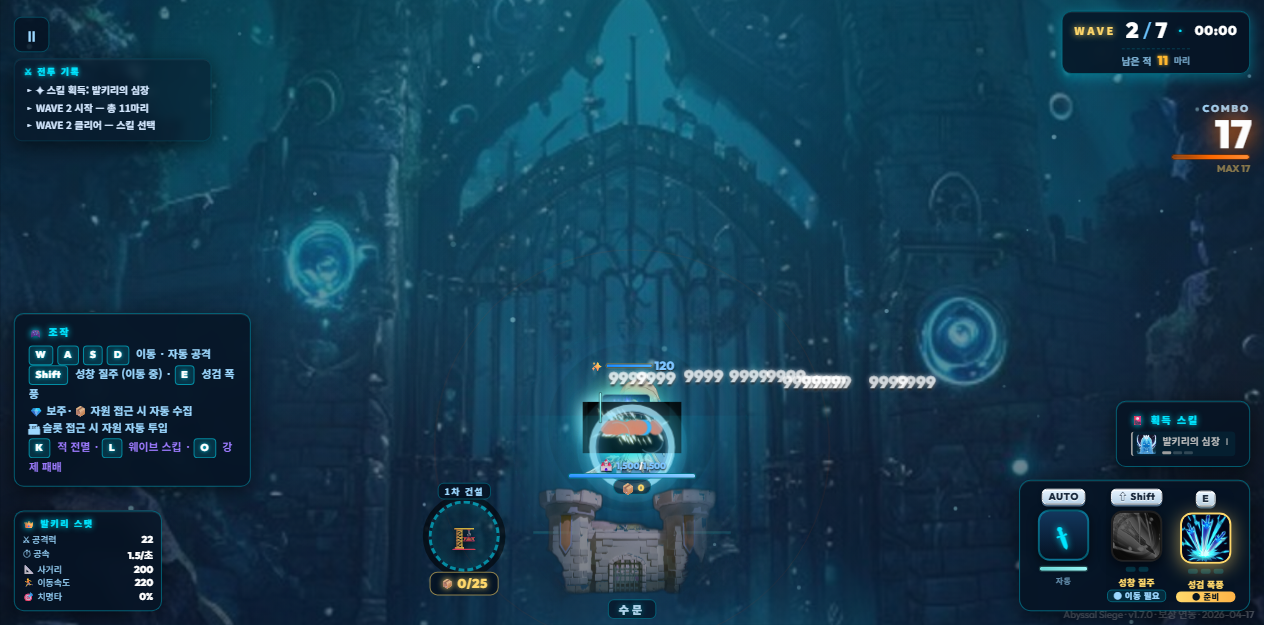
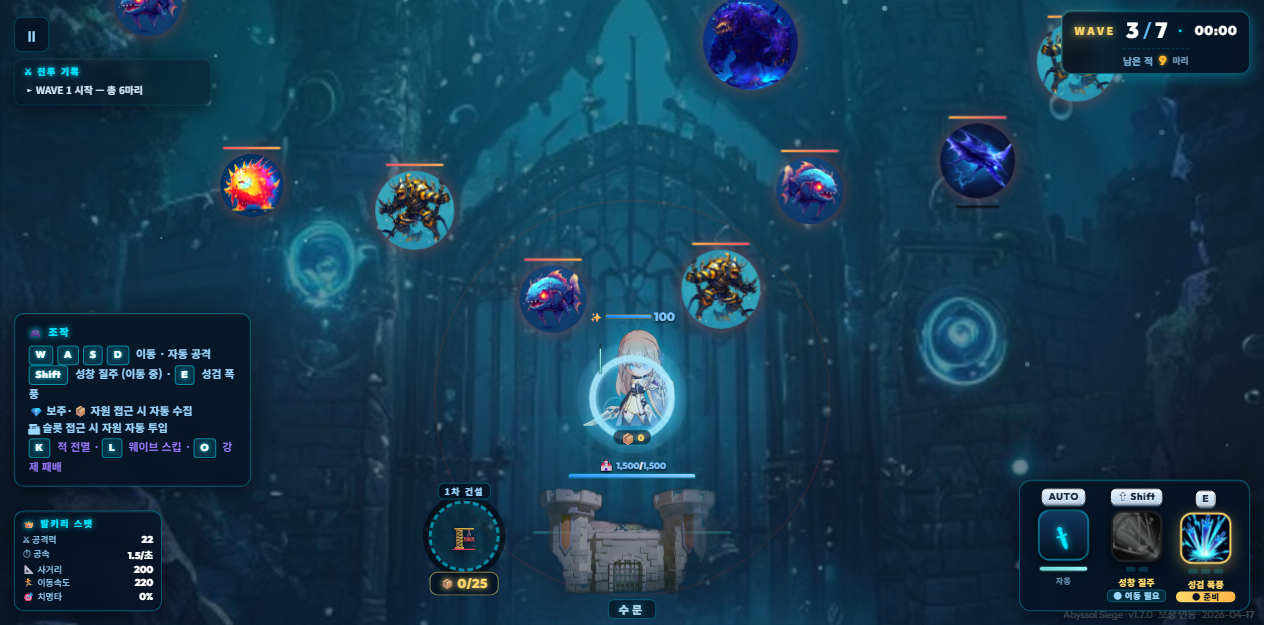
fix: 게임플레이/타이틀 스크린샷 재촬영
- ss_gameplay: ?showgameplay 파라미터 구현 — Wave 3 전투 장면 수동 배치
  9마리 적(sogari/bangeo/agwi/gaori/bokeo) 화면 전체 분산, 발키리 수문 앞
- ss_title: ?showtitle 파라미터 구현 — 타이틀 애니메이션 즉시 완료
  흰 배경 제거, UI 텍스트/버튼/컨트롤카드 모두 표시
- 두 스크린샷 모두 1264×625로 통일

diff --git a/index.html b/index.html
@@ -6321,6 +6321,68 @@ if(AUTOPLAY){
       }catch(e){}
     },80);
   }
+
+  // ?showtitle : 타이틀 화면 스크린샷용 — 애니메이션 즉시 완료
+  if(p.includes('showtitle')){
+    const _ssCss=document.createElement('style');
+    _ssCss.textContent='*{animation-duration:0.001ms!important;animation-delay:0ms!important;transition-duration:0.001ms!important;transition-delay:0ms!important}';
+    document.head.appendChild(_ssCss);
+    // opacity:0으로 시작하는 타이틀 요소 모두 즉시 표시
+    document.querySelectorAll('.title-anim').forEach(el=>{
+      el.style.opacity='1';
+      el.style.transform='translateY(0)';
+    });
+  }
+
+  // ?showgameplay : Wave 3 전투 장면 강제 세팅 (게임플레이 스크린샷용)
+  if(p.includes('showgameplay')){
+    setTimeout(()=>{
+      try{
+        startGame();
+        setTimeout(()=>{
+          // 1) Wave 3 상태 세팅
+          state.wave=3; state.waveMax=7;
+          state.phase='playing'; state.running=true;
+          _paused=true; // render()는 유지, update()는 정지
+          state.stats={kill:23,orb:7,crit:4,maxCombo:18};
+          state.combo=12; state.maxCombo=18;
+          state.enemiesToSpawn=[]; state.waveSpawned=99; state.currentWaveTotal=99;
+          document.getElementById('titleScreen').classList.add('hidden');
+          // 2) 기존 적 제거
+          enemies.forEach(e=>{ if(e.el&&e.el.parentNode) e.el.parentNode.removeChild(e.el); });
+          enemies.length=0;
+          // 3) 적 수동 배치 — 화면 전체 분산 (8마리)
+          const pl=[
+            // 후방 (멀리서 접근 중)
+            {type:'sogari', x:150,  y: 90},
+            {type:'agwi',   x:760,  y:130},
+            {type:'bangeo', x:1090, y:150},
+            // 중거리
+            {type:'gaori',  x:990,  y:250},
+            {type:'bokeo',  x:255,  y:275},
+            {type:'bangeo', x:420,  y:300},
+            {type:'sogari', x:820,  y:280},
+            // 근접 (전투 중)
+            {type:'sogari', x:560,  y:390},
+            {type:'bangeo', x:730,  y:380},
+          ];
+          pl.forEach(({type,x,y})=>{
+            spawnEnemy(type);
+            const e=enemies[enemies.length-1];
+            e.x=x; e.y=y; e._alive=true;
+            if(e.el){ e.el.style.left=(x-e.r)+'px'; e.el.style.top=(y-e.r)+'px'; }
+          });
+          // 4) 발키리 중앙 배치
+          player.x=640; player.y=490;
+          // 5) HUD 갱신
+          try{ updateHud(); }catch(ex){}
+          // 6) Wave 배너 숨기기
+          const wb=document.getElementById('waveBanner');
+          if(wb){ wb.classList.remove('show'); wb.style.opacity='0'; }
+        },300);
+      }catch(e){ console.error('showgameplay err',e); }
+    },80);
+  }
 })();
 
 // ═══════════════════════════════════════
